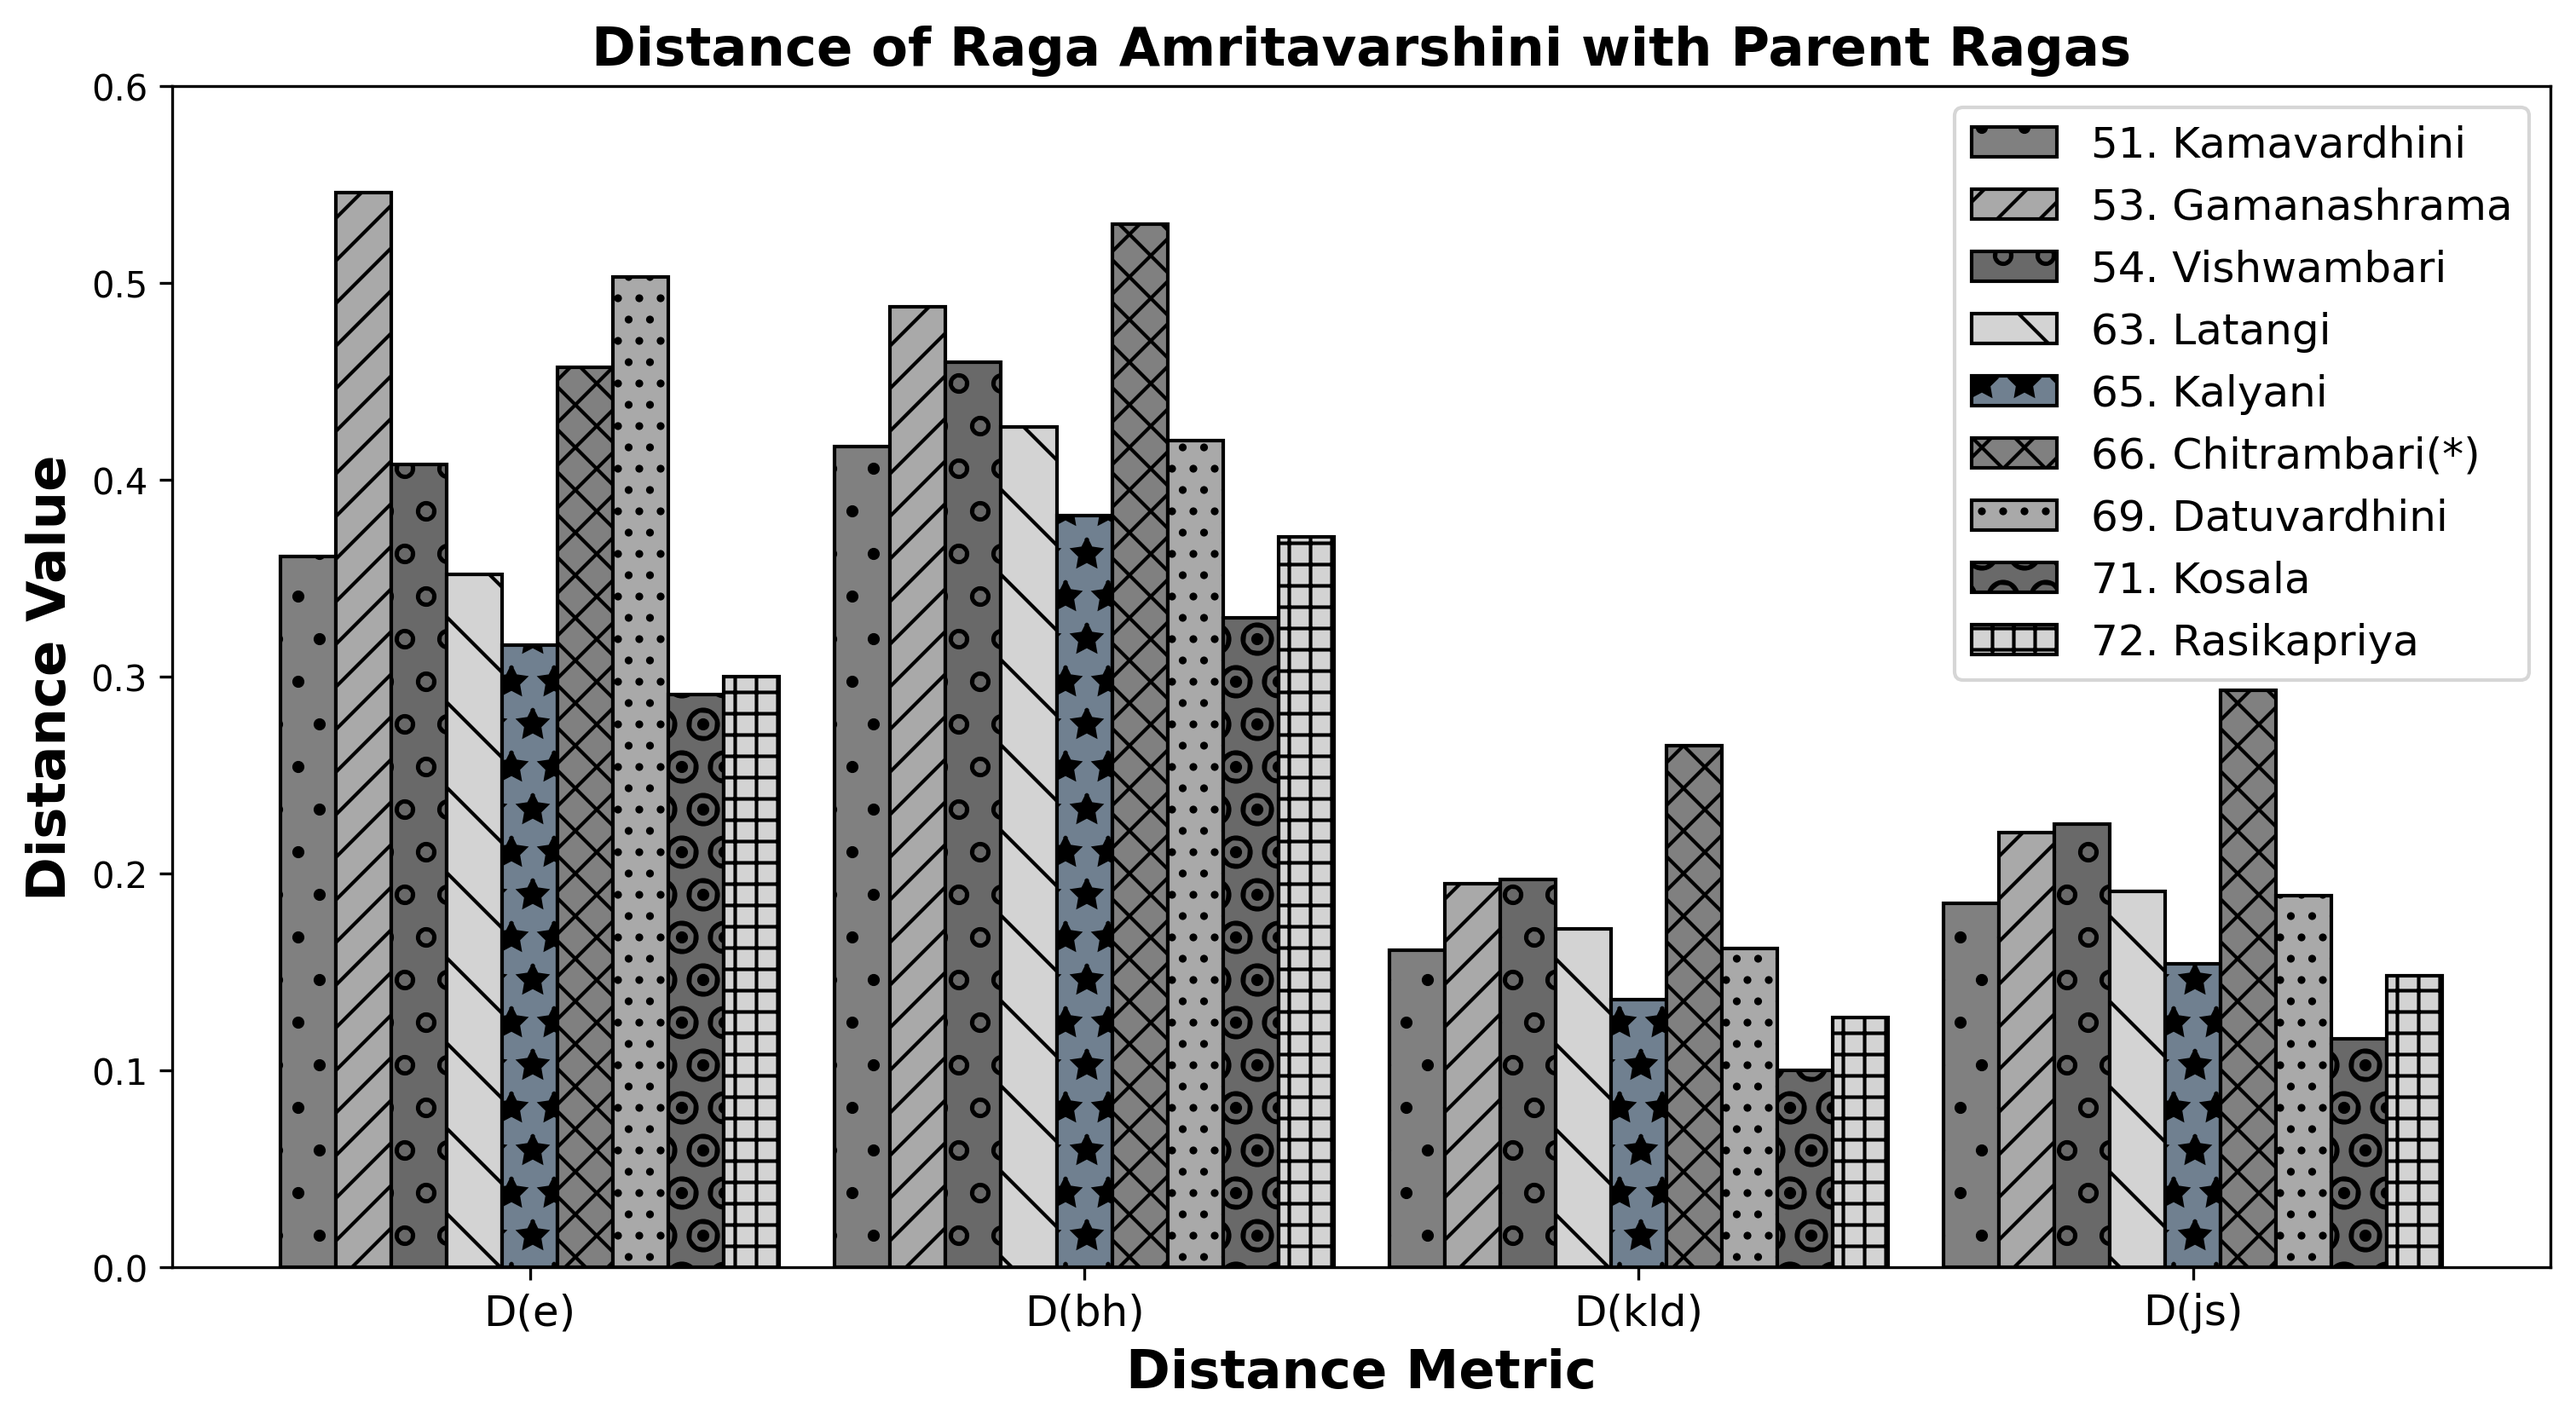
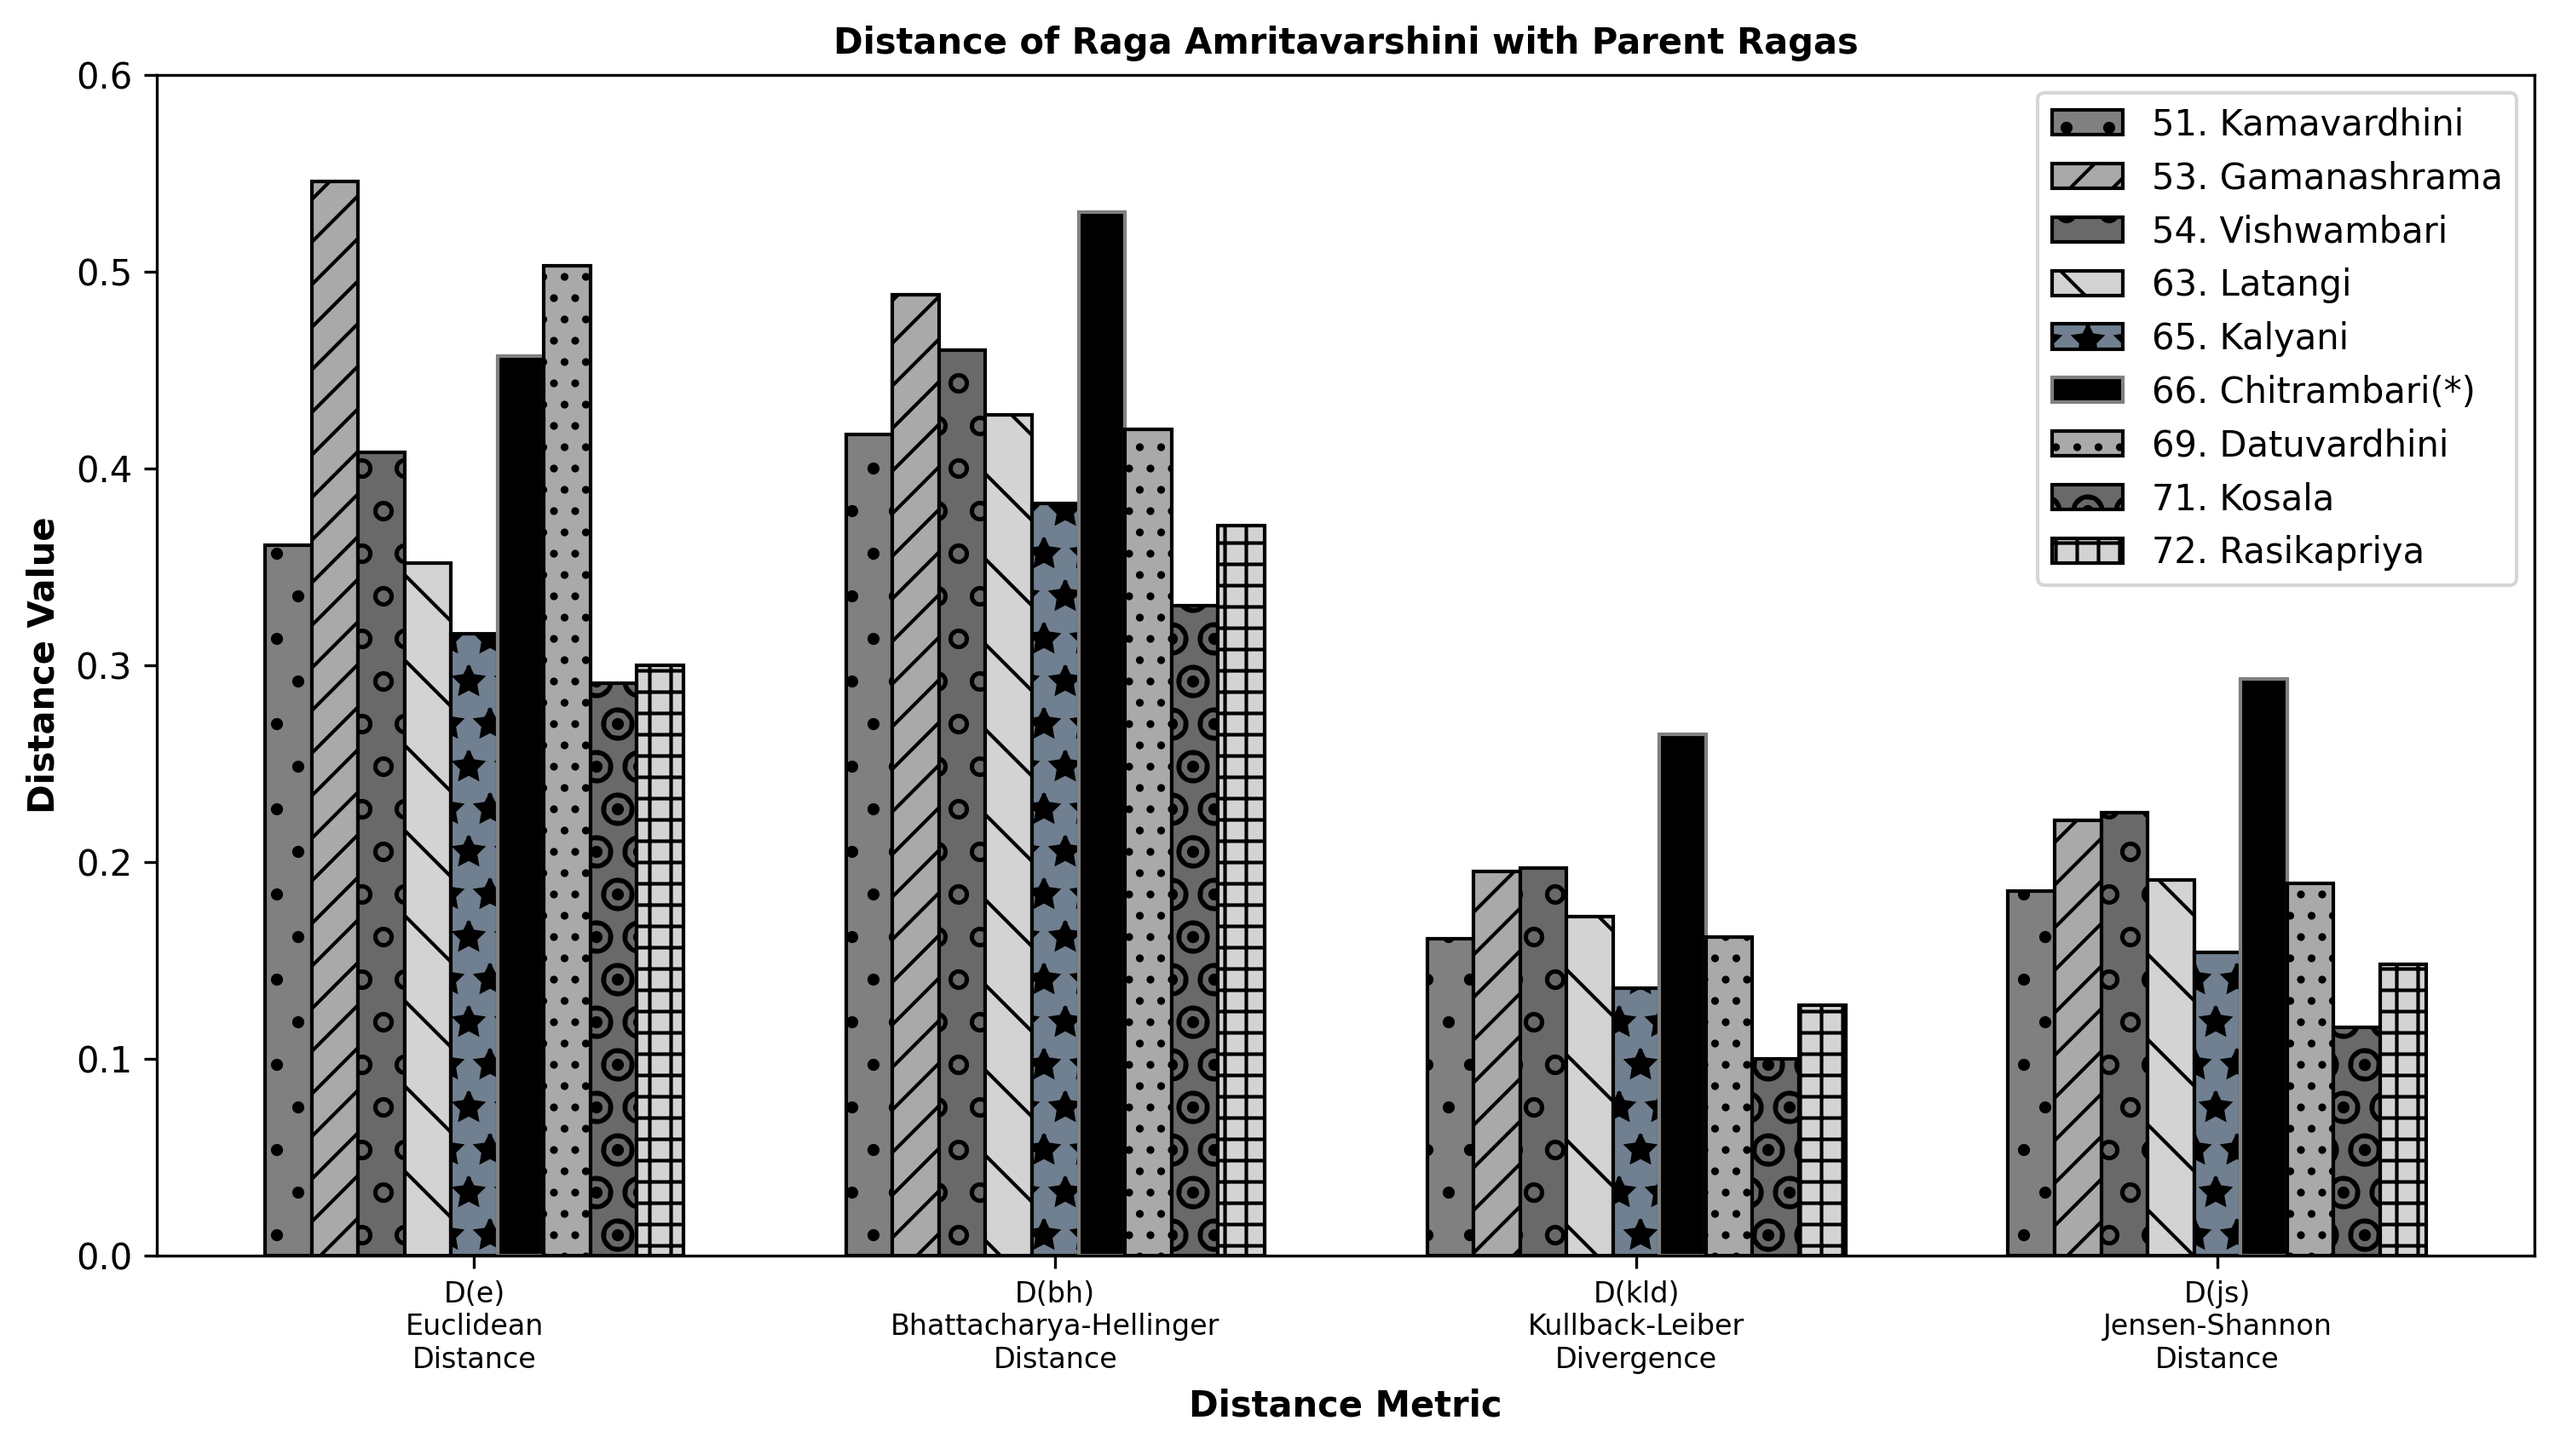
plotted table5, 6 and 7

diff --git a/plot_tables_v4.py b/plot_tables_v4.py
@@ -1,0 +1,178 @@
+"""
+Code to plot tables to normalized bar plot
+JNMR paper tables
+
+Author: Jom Kuriakose
+"""
+
+import os
+import numpy as np
+import matplotlib.pyplot as plt
+import matplotlib.colors as mcolors
+
+# ----------------------------------------------------------------
+
+filename = 'tables/Table5_Hindola.txt'
+Raga_name = "Hindola"
+parent_lab = "(*)"
+
+# filename = 'tables/Table5_Sunadavinodini.txt'
+# Raga_name = "Sunadavinodini"
+# parent_lab = "(*)"
+
+# filename = 'tables/Table5_Madhyamavati.txt'
+# Raga_name = "Madhyamavati"
+# parent_lab = "(*)"
+
+# filename = 'tables/Table5_Mohana.txt'
+# Raga_name = "Mohana"
+# parent_lab = "(*)"
+
+# filename = 'tables/Table6_Revati.txt'
+# Raga_name = "Revati"
+# parent_lab = "(*)"
+
+# filename = 'tables/Table6_Hamsadwani.txt'
+# Raga_name = "Hamsadwani"
+# parent_lab = "(*)"
+
+# filename = 'tables/Table7_Gambhiranata.txt'
+# Raga_name = "Gambhiranata"
+# parent_lab = "(**)"
+
+# filename = 'tables/Table7_Amritavarshini.txt'
+# Raga_name = "Amritavarshini"
+# parent_lab = "(*)"
+
+# ----------------------------------------------------------------
+
+# yaxis limits -- set ylim to None for default values
+ylim = None
+# ylim = [0,0.6]
+# ylim = [0,1]
+
+legend_size = 10
+legend_position = 'best'
+# legend_position = 'upper right'
+bbox_shift = None
+plot_hline = False
+
+# set width of bar
+barWidth = 0.15
+# barWidth = 0.12
+# barWidth = 0.10
+# barWidth = 0.08
+# bbox_shift = [1, 1]
+
+# set height and width of figure
+height = 6
+width = 6
+# width = 8
+# width = 12
+
+# ----------------------------------------------------------------
+
+sym_list = [".","//","o","\\","*","xx","..",".O","++"]
+color_list = ["gray","darkgray","dimgray","lightgray","slategrey","grey","darkgrey","dimgrey","lightgrey"]
+color_list_new = list(mcolors.TABLEAU_COLORS.values())
+
+# ----------------------------------------------------------------
+
+def read_table(filename):
+        with open(filename, 'r') as fid:
+                file_data = fid.readlines()
+        janaka_list = {}
+        norm_janaka_list = {}
+        janaka_arr = []
+        for i in range(len(file_data)):
+                if i == 0:
+                        pass
+                else:
+                        line = file_data[i].strip().split('\t')
+                        janaka_list[line[0].strip()] = [float(j) for j in line[1:]]
+                        janaka_arr.append([float(j) for j in line[1:]])
+        janaka_arr = np.array(janaka_arr)
+        # normalize by the max value in each column
+        janaka_arr = janaka_arr / janaka_arr.max(axis=0)
+        janaka_list_keys = list(janaka_list.keys())
+        for i in range(0,len(janaka_list_keys)):
+                norm_janaka_list[janaka_list_keys[i]] = list(janaka_arr[i])
+        return janaka_list, norm_janaka_list
+
+def plot_figure(barWidth, height, width, sym_list, color_list, color_flag, janaka_list, Raga_name, ylim, legend_size, legend_position, bbox_shift, plot_hline, file_name):
+
+        fig = plt.subplots(figsize =(width, height))
+
+        # Set position of bar on X axis
+        br_list = []
+        for i in range(0,len(janaka_list)):
+                if i == 0:
+                        br_list.append(np.arange(len(janaka_list[list(janaka_list.keys())[0]])))
+                else:
+                        br_list.append([x + barWidth for x in br_list[i-1]])
+        
+        sym_counter = 0
+
+        if plot_hline:
+                plt.axhline(y=1.0, color='grey', linestyle='--')
+                plt.axhline(y=0.6, color='grey', linestyle='--')
+                plt.axhline(y=0.2, color='grey', linestyle='--')
+
+        # Make the plot
+        for i in range(0,len(janaka_list)):
+                raga_label = list(janaka_list.keys())[i]
+                # print(raga_label)
+                if parent_lab in raga_label:
+                        barlist = plt.bar(br_list[i], janaka_list[raga_label], color = 'black', width = barWidth, edgecolor ='gray', label = raga_label)
+                else:
+                        barlist = plt.bar(br_list[i], janaka_list[raga_label], color = color_list[i], width = barWidth, edgecolor ='black', label = raga_label)
+                        if not color_flag:
+                                for j in range(0, len(barlist)):
+                                        barlist[j].set_hatch(sym_list[sym_counter])
+                sym_counter += 1
+        
+        plt.title(f'Distance of Raga {Raga_name} with Parent Ragas', fontweight ='bold', fontsize = 10)
+        # Adding Xticks
+        
+        plt.xlabel('Distance Metric', fontweight ='bold', fontsize = 10)
+        plt.ylabel('Distance Value', fontweight ='bold', fontsize = 10)
+        plt.xticks([r + barWidth*(len(janaka_list)-1)/2 for r in range(len(janaka_list[list(janaka_list.keys())[0]]))], [f"D(e)\nEuclidean\nDistance", f"D(bh)\nBhattacharya-Hellinger\nDistance", f"D(kld)\nKullback-Leiber\nDivergence", f"D(js)\nJensen-Shannon\nDistance"], fontsize = 8)
+
+        if ylim:
+                plt.ylim(ylim[0], ylim[1])
+        if bbox_shift == None:
+                plt.legend(fontsize=legend_size, loc=legend_position)
+        else:
+                plt.legend(fontsize=legend_size, loc=legend_position, bbox_to_anchor=bbox_shift)
+        final_fig = plt.gcf()
+        plt.show()
+        plt.draw()
+        print(f"Plot saved to {file_name}.png")
+        final_fig.savefig(file_name+".png", bbox_inches="tight", dpi=300)
+        plt.close()
+
+if __name__ == '__main__':
+        print(filename)
+        janaka_list, norm_janaka_list = read_table(filename)
+        print(janaka_list.keys())
+        file_name = os.path.splitext(os.path.basename(filename))
+        print(file_name[0])
+
+        # not normalized
+        color_flag = False
+        plot_figure(barWidth, height, width, sym_list, color_list, color_flag, janaka_list, Raga_name, ylim, legend_size, legend_position, bbox_shift, plot_hline, 'plots/'+file_name[0])
+        color_flag = True
+        plot_figure(barWidth, height, width, sym_list, color_list_new, color_flag, janaka_list, Raga_name, ylim, legend_size, legend_position, bbox_shift, plot_hline, 'plots/'+file_name[0]+'_color')
+
+        # normalized plots
+        # ylim = [0,1]
+        ylim = None
+        legend_size = 6
+        legend_position = 'upper center'
+        bbox_shift = [0.52, 0.99]
+        color_flag = False
+        plot_hline = True
+
+        plot_figure(barWidth, height, width, sym_list, color_list, color_flag, norm_janaka_list, Raga_name, ylim, legend_size, legend_position, bbox_shift, plot_hline, 'plots/'+file_name[0]+'_norm')
+        color_flag = True
+        plot_figure(barWidth, height, width, sym_list, color_list_new, color_flag, norm_janaka_list, Raga_name, ylim, legend_size, legend_position, bbox_shift, plot_hline, 'plots/'+file_name[0]+'_norm_color')

diff --git a/plot_tables_v3.py b/plot_tables_v3.py
@@ -1,26 +1,40 @@
+"""
+Code to plot tables to bar plot
+JNMR paper tables
+
+Author: Jom Kuriakose
+"""
+
 import os
 import numpy as np
 import matplotlib.pyplot as plt
+import matplotlib.colors as mcolors
 
 # filename = 'tables/Table5_Mohana.txt'
 # Raga_name = "Mohana"
+# parent_lab = "(*)"
 
 # filename = 'tables/Table5_Madhyamavati.txt'
 # Raga_name = "Madhyamavati"
+# parent_lab = "(*)"
 
-# filename = 'tables/Table7_Gambhiranata.txt'
-# Raga_name = "Gambhiranata"
+filename = 'tables/Table7_Gambhiranata.txt'
+Raga_name = "Gambhiranata"
+parent_lab = "(**)"
 
-filename = 'tables/Table7_Amritavarshini.txt'
-Raga_name = "Amritavarshini"
+# filename = 'tables/Table7_Amritavarshini.txt'
+# Raga_name = "Amritavarshini"
+# parent_lab = "(*)"
 
 # yaxis limits -- set ylim to None for default values
 # ylim = None
 ylim = [0,0.6]
+# ylim = [0,1]
 
 # set width of bar
 # barWidth = 0.15
-barWidth = 0.10
+# barWidth = 0.10
+barWidth = 0.08
 
 # set height and width of figure
 height = 6
@@ -29,6 +43,7 @@ width = 12
 
 sym_list = [".","//","o","\\","*","xx","..",".O","++"]
 color_list = ["gray","darkgray","dimgray","lightgray","slategrey","grey","darkgrey","dimgrey","lightgrey"]
+color_list_new = list(mcolors.TABLEAU_COLORS.values())
 
 def read_table(filename):
         with open(filename, 'r') as fid:
@@ -59,20 +74,23 @@ def plot_figure(barWidth, height, width, sym_list, color_list, janaka_list, Raga
         for i in range(0,len(janaka_list)):
                 raga_label = list(janaka_list.keys())[i]
                 print(raga_label)
-                barlist = plt.bar(br_list[i], janaka_list[raga_label], color = color_list[i], width = barWidth, edgecolor ='black', label = raga_label)
-                for j in range(0, len(barlist)):
-                        barlist[j].set_hatch(sym_list[sym_counter])
+                if parent_lab in raga_label:
+                        barlist = plt.bar(br_list[i], janaka_list[raga_label], color = 'black', width = barWidth, edgecolor ='gray', label = raga_label)
+                else:
+                        barlist = plt.bar(br_list[i], janaka_list[raga_label], color = color_list[i], width = barWidth, edgecolor ='black', label = raga_label)
+                        for j in range(0, len(barlist)):
+                                barlist[j].set_hatch(sym_list[sym_counter])
                 sym_counter += 1
         
-        plt.title(f'Distance of Raga {Raga_name} with Parent Ragas', fontweight ='bold', fontsize = 15)
+        plt.title(f'Distance of Raga {Raga_name} with Parent Ragas', fontweight ='bold', fontsize = 10)
         # Adding Xticks
-        plt.xlabel('Distance Metric', fontweight ='bold', fontsize = 15)
-        plt.ylabel('Distance Value', fontweight ='bold', fontsize = 15)
-        plt.xticks([r + barWidth*(len(janaka_list)-1)/2 for r in range(len(janaka_list[list(janaka_list.keys())[0]]))], ['D(e)', 'D(bh)', 'D(kld)', 'D(js)'], fontsize = 12)
+        plt.xlabel('Distance Metric', fontweight ='bold', fontsize = 10)
+        plt.ylabel('Distance Value', fontweight ='bold', fontsize = 10)
+        plt.xticks([r + barWidth*(len(janaka_list)-1)/2 for r in range(len(janaka_list[list(janaka_list.keys())[0]]))], [f"D(e)\nEuclidean\nDistance", f"D(bh)\nBhattacharya-Hellinger\nDistance", f"D(kld)\nKullback-Leiber\nDivergence", f"D(js)\nJensen-Shannon\nDistance"], fontsize = 8)
 
         if ylim:
                 plt.ylim(ylim[0], ylim[1])
-        plt.legend(fontsize=12)
+        plt.legend(fontsize=10)
         final_fig = plt.gcf()
         plt.show()
         plt.draw()
@@ -84,3 +102,4 @@ if __name__ == '__main__':
         janaka_list = read_table(filename)
         file_name = os.path.splitext(os.path.basename(filename))
         plot_figure(barWidth, height, width, sym_list, color_list, janaka_list, Raga_name, ylim, 'plots/'+file_name[0])
+        plot_figure(barWidth, height, width, sym_list, color_list_new, janaka_list, Raga_name, ylim, 'plots/'+file_name[0]+'_color')
